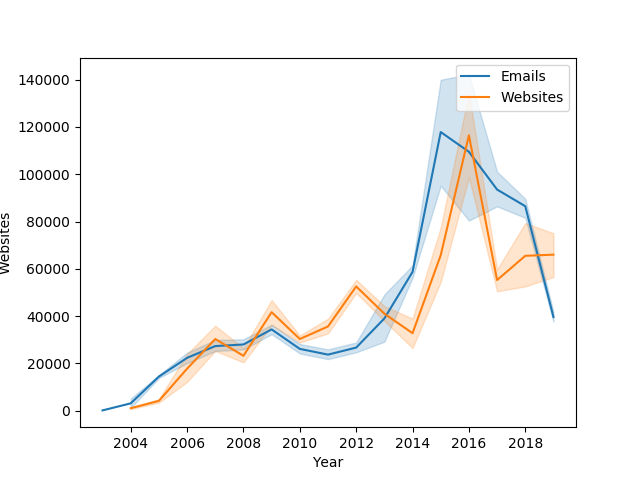
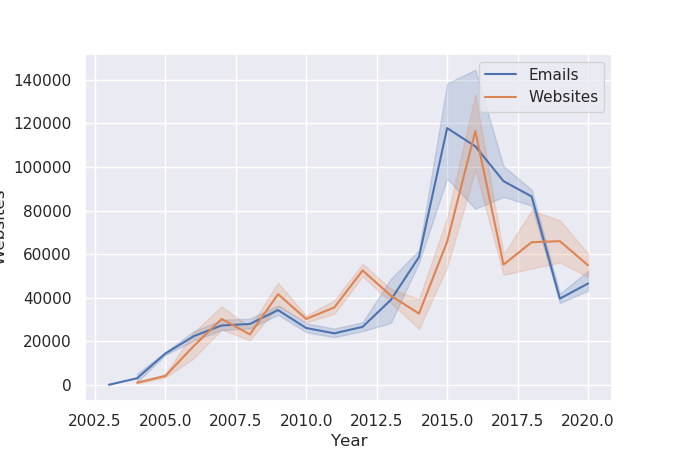
Updated figure aesthetics

diff --git a/artefact/classifier/plotter/apwg_data_plotter.py b/artefact/classifier/plotter/apwg_data_plotter.py
@@ -9,19 +9,22 @@ import pandas as pd
 import seaborn as sns
 from numpy import median
 
-
+sns.set()
 # APWG reports based figures
+plt.figure(figsize=(6.8,4.5))
 apwg_data = pd.read_csv(
-    "apwg.csv",
+    "source/apwg.csv",
     names=["Year", "Month", "Websites", "Emails", "Target Brands"],
     skiprows=1,
 )
+
 plot = sns.lineplot(
     x="Year", y="Emails", data=apwg_data, label="Emails", palette="pastel"
 )
 plot = sns.lineplot(
     x="Year", y="Websites", data=apwg_data, label="Websites", palette="pastel"
 )
+
 plot.legend()
 plot.figure.savefig("images/apwg_attack_hist.png")
 
@@ -32,10 +35,11 @@ plot = sns.lineplot(
 plot.figure.savefig("images/apwg_brands_hist.png")
 
 plot.get_figure().clf()
+plt.figure(figsize=(11, 5))
 https_data = pd.read_csv(
-    "https_usage.csv", names=["Quarter", "Percentage"], skiprows=1
+    "source/apwg_https_usage.csv", names=["Quarter", "Percentage"], skiprows=1
 )
-colors = ["#1F77B4" for x in https_data]
+colors = ["#81AECB" for x in https_data]
 plot = sns.barplot(
     x="Quarter",
     y="Percentage",
@@ -45,4 +49,7 @@ plot = sns.barplot(
 )
 locs, labels = plt.xticks()
 plot.set_xticklabels(labels=labels, rotation=-30)
-plot.figure.savefig("images/https_usage.png")
+for p in plot.patches:
+    plot.annotate("%.0f" % p.get_height(), (p.get_x() + p.get_width() / 2., p.get_height()),ha='center', va='center', fontsize=11, color='gray', xytext=(0, 15),textcoords='offset points')
+_ = plot.set_ylim(0,100) #To make space for the annotations
+plot.figure.savefig("images/apwg_https_usage.png")
